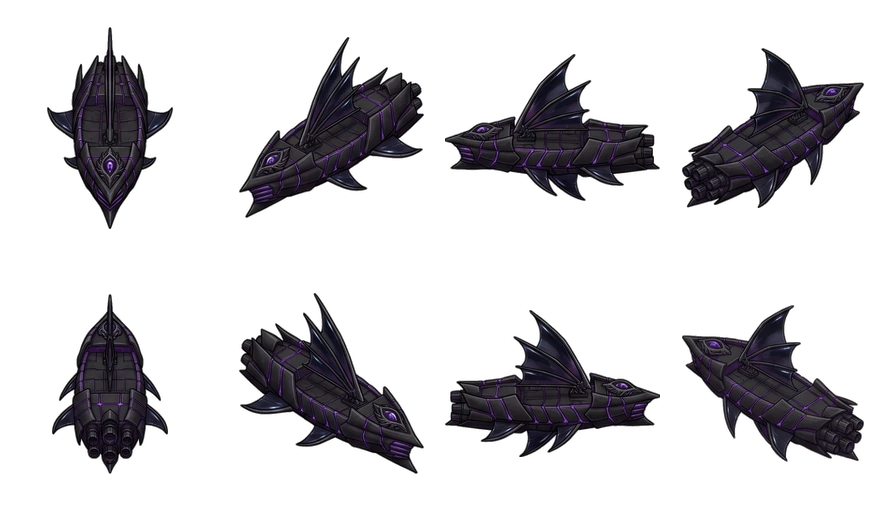
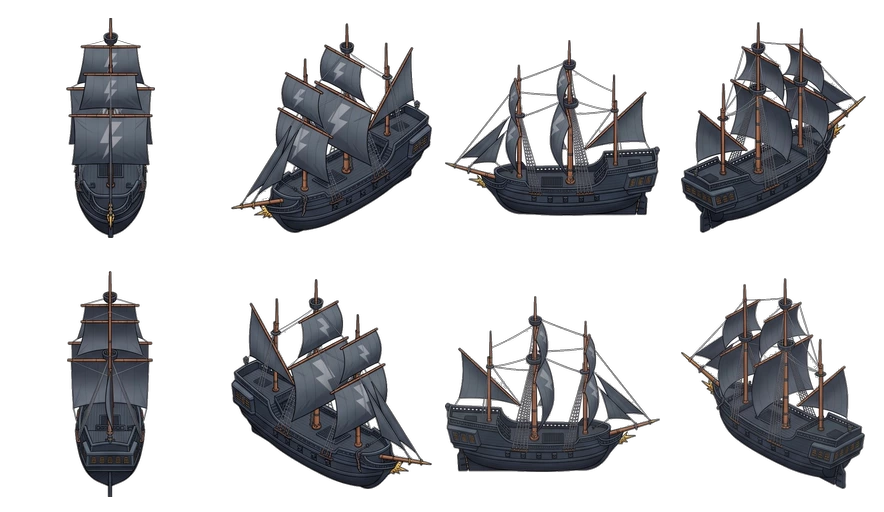
Elit adları ve tasarımları eşleştirildi
9–13 görselleri ad listesine göre bir sıra kaymıştı; görseller doğru adlara
taşındı: 9 Fırtına Habercisi (şimşek yelkenli), 10 Kraliyet Sancaktarı
(aslanlı), 11 Yeşim Ejderha (yeşil ejder), 12 Ragnarok Yıkıcısı (viking),
13 Hiçlik Hükümdarı (mor girdap gemisi). Gemi kimlikleri adlara uyduruldu
(plague/shadow kaldırıldı; 14 coral, 15 sand). Mercan Koruyucusu ve Kum
Gezgini yeni tasarımlarını bekliyor, şimdilik eski sayfalar. Görsel sürüm 6.

Claude-Session: https://claude.ai/code/session_01Mc9BhaSSsCCxzjNzAUDeqJ

diff --git a/src/elite-ships.ts b/src/elite-ships.ts
@@ -1,5 +1,5 @@
 export type EliteShipId=
-  'phantom'|'magma'|'glacial'|'kraken'|'ironclad'|'crimson'|'atlantean'|'bone'|'tempest'|'plague'|'sovereign'|'shadow'|'jade'|'ragnarok'|'void';
+  'phantom'|'magma'|'glacial'|'kraken'|'ironclad'|'crimson'|'atlantean'|'bone'|'tempest'|'sovereign'|'jade'|'ragnarok'|'void'|'coral'|'sand';
 
 export type EliteShip={
   id:EliteShipId;level:number;name:string;english:string;asset:string;
@@ -7,21 +7,21 @@ export type EliteShip={
 
 // Elit gemiler: şimdilik yalnızca seviye, ad ve görünüm. Rol, pasif ve özel yetenekler yeniden tasarlanıyor (onay bekliyor).
 export const ELITE_SHIPS:EliteShip[]=[
-{id:'phantom',level:1,name:'Hayalet Kadırga',english:'The Phantom Galleon',asset:'/assets/elite-phantom-v1.webp'},
-{id:'magma',level:2,name:'Volkanik Dreadnought',english:'Volcanic Dreadnought',asset:'/assets/elite-magma-v1.webp'},
-{id:'glacial',level:3,name:'Buzul Tiranı',english:'Glacial Tyrant',asset:'/assets/elite-glacial-v1.webp'},
-{id:'kraken',level:4,name:"Kraken'in Gazabı",english:"Kraken's Embrace",asset:'/assets/elite-kraken-v1.webp'},
-{id:'ironclad',level:5,name:'Buharlı Zırhlı',english:'Steampunk Ironclad',asset:'/assets/elite-ironclad-v1.webp'},
-{id:'crimson',level:6,name:'Kanlı Ay Korveti',english:'Crimson Moon Corsair',asset:'/assets/elite-crimson-v1.webp'},
-{id:'atlantean',level:7,name:'Kadim Atlantis Muhafızı',english:'Atlantean Sentry',asset:'/assets/elite-atlantean-v1.webp'},
-{id:'bone',level:8,name:'Kemik Biçici',english:'Bone Harvester',asset:'/assets/elite-bone-v1.webp'},
-{id:'tempest',level:9,name:'Fırtına Habercisi',english:'Tempest Harbinger',asset:'/assets/elite-tempest-v1.webp'},
-{id:'plague',level:10,name:'Kraliyet Sancaktarı',english:'Royal Standard-Bearer',asset:'/assets/elite-plague-v1.webp'},
-{id:'sovereign',level:11,name:'Yeşim Ejderha',english:'Jade Dragon',asset:'/assets/elite-sovereign-v1.webp'},
-{id:'shadow',level:12,name:'Ragnarok Yıkıcısı',english:'Ragnarok Destroyer',asset:'/assets/elite-shadow-v1.webp'},
-{id:'jade',level:13,name:'Hiçlik Hükümdarı',english:'Void Monarch',asset:'/assets/elite-jade-v1.webp'},
-{id:'ragnarok',level:14,name:'Mercan Koruyucusu',english:'Coral Guardian',asset:'/assets/elite-ragnarok-v1.webp'},
-{id:'void',level:15,name:'Kum Gezgini',english:'Sand Wanderer',asset:'/assets/elite-void-v1.webp'}
+{id:'phantom',level:1,name:'Hayalet Kadırga',english:'The Phantom Galleon',asset:'/assets/elite-phantom-art-v2.webp'},
+{id:'magma',level:2,name:'Volkanik Dreadnought',english:'Volcanic Dreadnought',asset:'/assets/elite-magma-art-v2.webp'},
+{id:'glacial',level:3,name:'Buzul Tiranı',english:'Glacial Tyrant',asset:'/assets/elite-glacial-art-v2.webp'},
+{id:'kraken',level:4,name:"Kraken'in Gazabı",english:"Kraken's Embrace",asset:'/assets/elite-kraken-art-v2.webp'},
+{id:'ironclad',level:5,name:'Buharlı Zırhlı',english:'Steampunk Ironclad',asset:'/assets/elite-ironclad-art-v2.webp'},
+{id:'crimson',level:6,name:'Kanlı Ay Korveti',english:'Crimson Moon Corsair',asset:'/assets/elite-crimson-art-v2.webp'},
+{id:'atlantean',level:7,name:'Kadim Atlantis Muhafızı',english:'Atlantean Sentry',asset:'/assets/elite-atlantean-art-v2.webp'},
+{id:'bone',level:8,name:'Kemik Biçici',english:'Bone Harvester',asset:'/assets/elite-bone-art-v2.webp'},
+{id:'tempest',level:9,name:'Fırtına Habercisi',english:'Tempest Harbinger',asset:'/assets/elite-tempest-art-v2.webp'},
+{id:'sovereign',level:10,name:'Kraliyet Sancaktarı',english:'Royal Standard-Bearer',asset:'/assets/elite-sovereign-art-v2.webp'},
+{id:'jade',level:11,name:'Yeşim Ejderha',english:'Jade Dragon',asset:'/assets/elite-jade-art-v2.webp'},
+{id:'ragnarok',level:12,name:'Ragnarok Yıkıcısı',english:'Ragnarok Destroyer',asset:'/assets/elite-ragnarok-art-v2.webp'},
+{id:'void',level:13,name:'Hiçlik Hükümdarı',english:'Void Monarch',asset:'/assets/elite-void-art-v2.webp'},
+{id:'coral',level:14,name:'Mercan Koruyucusu',english:'Coral Guardian',asset:'/assets/elite-coral-art-v2.webp'},
+{id:'sand',level:15,name:'Kum Gezgini',english:'Sand Wanderer',asset:'/assets/elite-sand-art-v2.webp'}
 ];
 export const eliteById=(id:string)=>ELITE_SHIPS.find(ship=>ship.id===id)??ELITE_SHIPS[0];
 // Yön sayfaları (elite-dir-<id>-v1.webp, 4 × 2 kare): her karenin gerçekte gösterdiği pusula yönü. Varsayılan düzen
@@ -33,8 +33,9 @@ const DEFAULT_SHOWS='S SW W NE N SE E NW';
 // Kemik Biçici (bone) ve Kadim Atlantis Muhafızı (atlantean) sayfalarında kuzey açısı çizimde yoktu; K karesinde geçici
 // olarak KB görünümü durur (kemikte D, B'nin aynasıdır). Gerçek K görünümü gelince aynı kareye konur.
 export const ELITE_DIR_SHOWS:Partial<Record<EliteShipId,string>>={
-  void:'S SW W NE N SE E SE',
-  ragnarok:'S NE W NE N SE E NW',
+  // Mercan Koruyucusu ve Kum Gezgini yeni tasarımlarını bekliyor; şimdilik eski Ragnarok ve Hiçlik sayfaları duruyor
+  sand:'S SW W NE N SE E SE',
+  coral:'S NE W NE N SE E NW',
 };
 // Pusula dizini (0 = kuzey, saat yönünde 45°) için {kare, ayna}
 export function eliteDirFrame(id:EliteShipId,compass:number):{frame:number;mirror:boolean}{

diff --git a/src/main.ts b/src/main.ts
@@ -102,7 +102,7 @@ const rasterItemAssets:Partial<Record<QuickItemId,string>>={};
 rasterItemAssets.iron='/assets/ammo-iron-v1.webp';rasterItemAssets.chain='/assets/ammo-chain-v1.webp';
 // Elit gemiler: tersane kartındaki tasarımın birebir aynısı, gemi başına temiz raster (384 px, pruva sol-aşağı).
 // Gemi görselleri aynı dosya adıyla yenilendiğinde tarayıcı önbelleği eskisini göstermesin diye sürüm eki (görsel değişince artır)
-const SHIP_ART_REV='5';
+const SHIP_ART_REV='6';
 const eliteArtUrl=(id:string)=>`/assets/elite-${id}-art-v2.webp?r=${SHIP_ART_REV}`;
 const eliteArtImages=new Map<string,HTMLImageElement>();
 function eliteArtImage(id:string){let im=eliteArtImages.get(id);if(!im){im=new Image();im.decoding='async';im.src=eliteArtUrl(id);eliteArtImages.set(id,im);}return im;}
